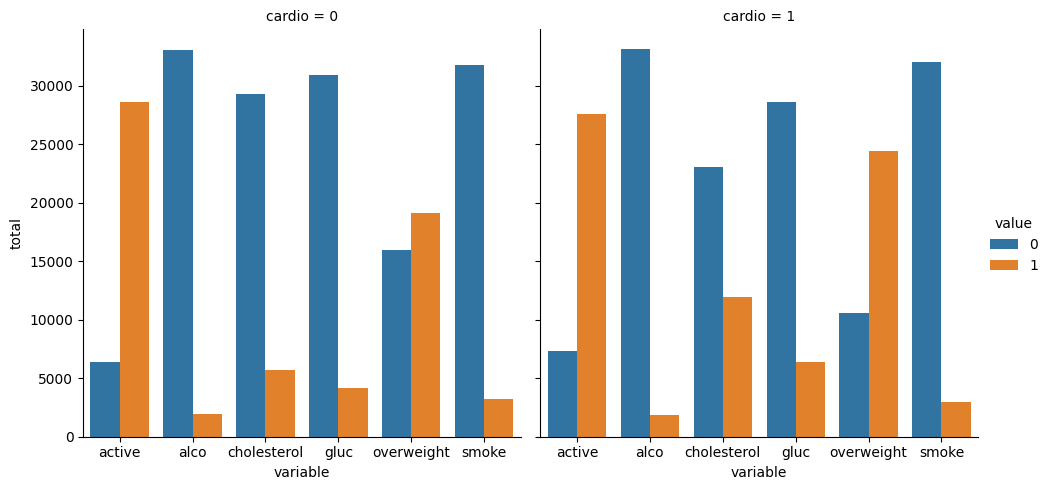
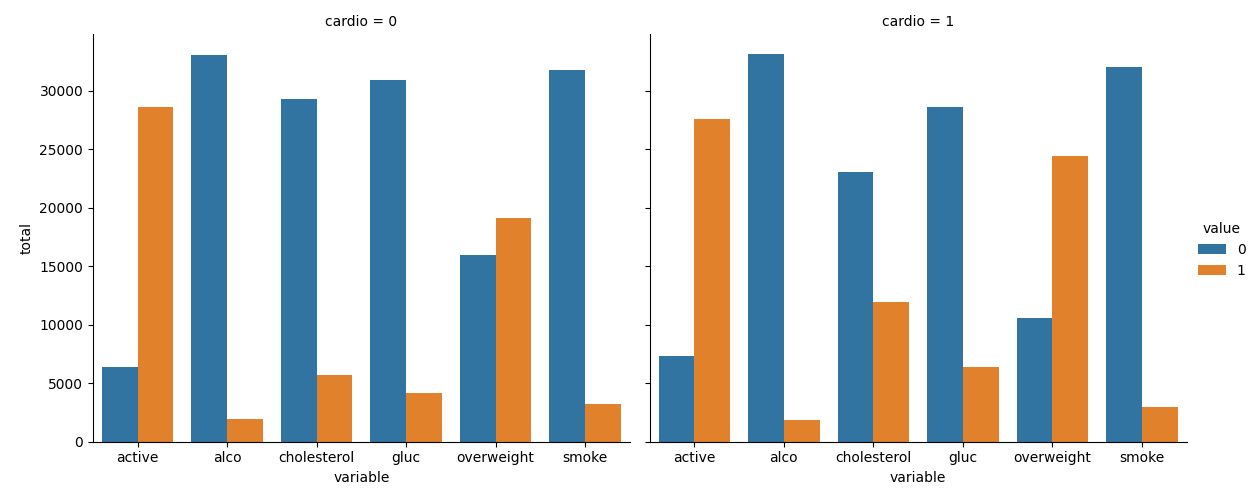
fix cat plot

diff --git a/medical_data_visualizer.py b/medical_data_visualizer.py
@@ -13,6 +13,7 @@ df['overweight'] = (df['weight'] / (df['height'] / 100) ** 2 > 25).astype(int)
 df['cholesterol'] = (df['cholesterol'] > 1).astype(int)
 df['gluc'] = (df['gluc'] > 1).astype(int)
 
+# draw_cat_plot
 def draw_cat_plot():
     # Convert data into long format
     df_cat = df.melt(id_vars='cardio', value_vars=['cholesterol', 'gluc', 'smoke', 'alco', 'active', 'overweight'])
@@ -21,14 +22,14 @@ def draw_cat_plot():
     df_cat = df_cat.groupby(['cardio', 'variable', 'value']).size().reset_index(name='total')
 
     # Create categorical plot
-    fig = sns.catplot(x='variable', y='total', hue='value', col='cardio', 
-                      data=df_cat, kind='bar', height=5, aspect=1.2)
-    
+    g = sns.catplot(x='variable', y='total', hue='value', col='cardio', 
+                    data=df_cat, kind='bar', height=5, aspect=1.2)
+
     # Save the figure
-    fig.savefig('catplot.png')
-    plt.close(fig.fig)
+    g.fig.savefig('catplot.png')
     
-    return fig
+    return g.fig  # Ensure returning the Matplotlib Figure, not FacetGrid
+
 
 def draw_heat_map():
     # Clean the data
